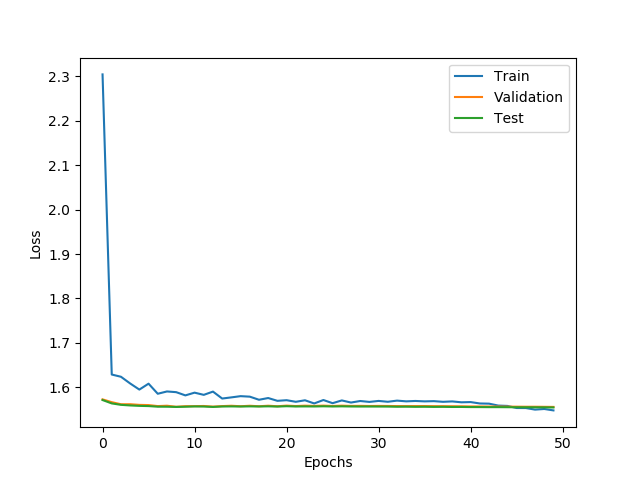
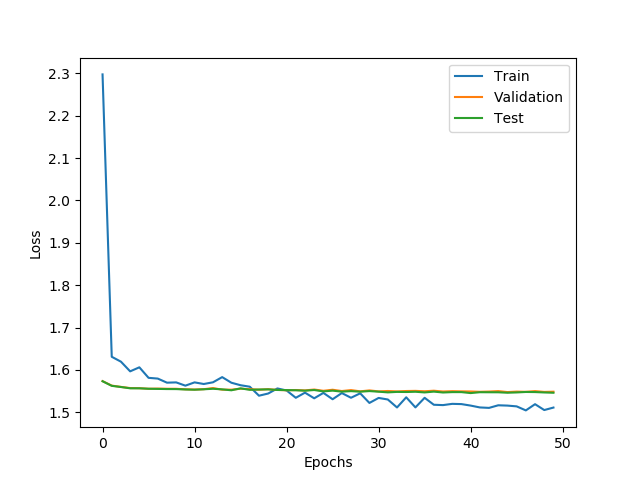
up

diff --git a/a2/starter.py b/a2/starter.py
@@ -157,7 +157,7 @@ def plot_trend(list_of_data, data_names=["Train", "Validation", "Test"], data_ti
 
 
 
-def train_torch_model(lr = 0.0001, epoch = 50, weight_decay = 0.01):
+def train_torch_model(lr = 0.0001, epoch = 50, weight_decay = 0.1):
     if torch.cuda.is_available():
         torch.set_default_tensor_type(torch.cuda.FloatTensor)
         print("on GPU")
@@ -234,8 +234,8 @@ def train_torch_model(lr = 0.0001, epoch = 50, weight_decay = 0.01):
     error_train = [error_train[i] for i in range(0, len(error_train), num)]
     acc_train = [acc_train[i] for i in range(0, len(acc_train), num)]
     plot_trend([error_train, error_valid, error_test],
-               data_title="torch_loss_2-3-05", y_label="Loss")
-    plot_trend([acc_train, acc_valid, acc_test], data_title="torch_accuracy_2-3-05")
+               data_title="torch_loss_2-3-01", y_label="Loss")
+    plot_trend([acc_train, acc_valid, acc_test], data_title="torch_accuracy_2-3-01")
 
 
 if __name__ == "__main__":
